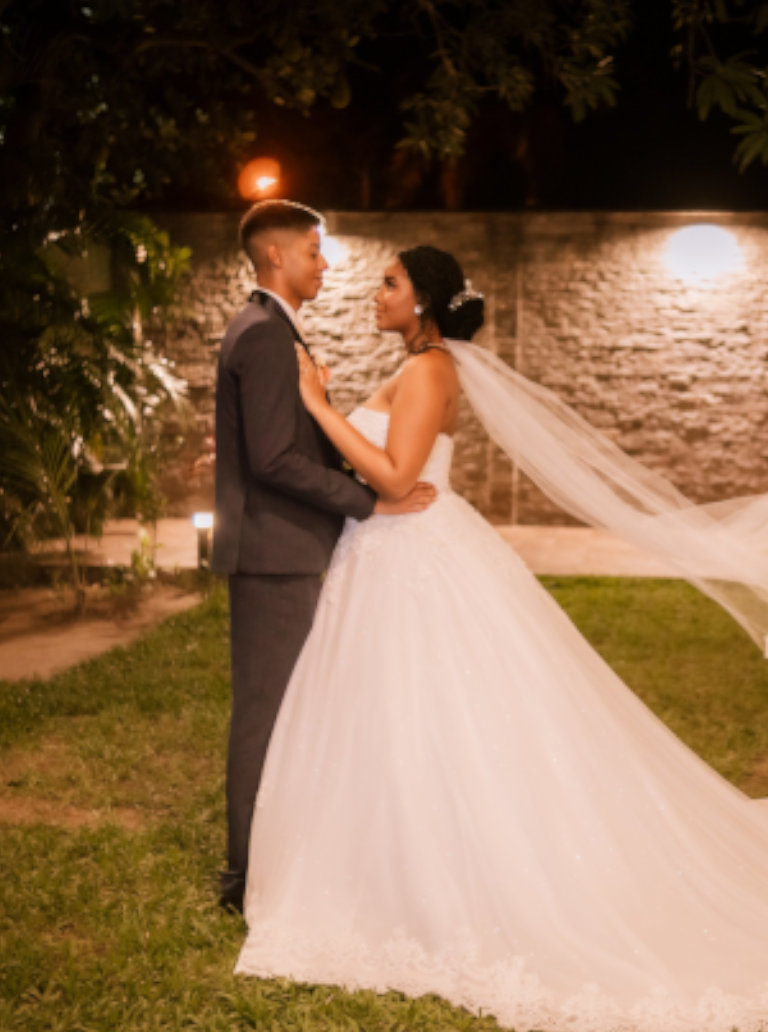
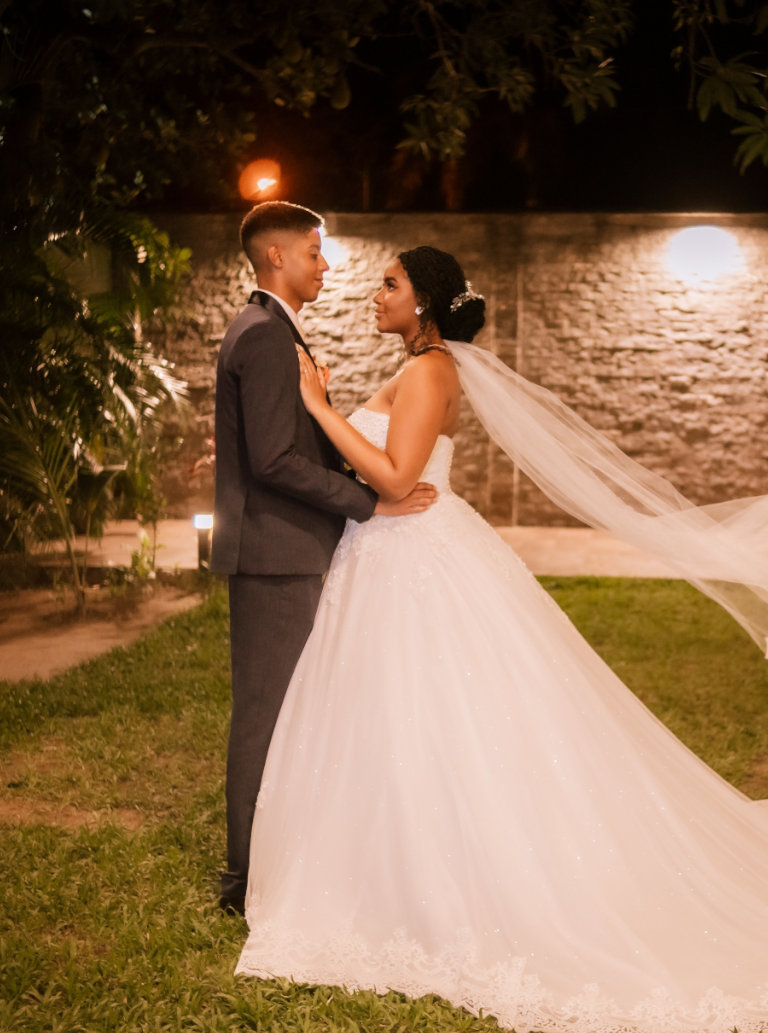
teste

diff --git a/index.html b/index.html
@@ -4,7 +4,7 @@
     <meta charset="UTF-8">
     <meta name="viewport" content="width=device-width, initial-scale=1.0">
     <title>Cerimonialista Stephany Mury</title>
-    <link rel="stylesheet" href="css/style.css?v=1.0">
+    <link rel="stylesheet" href="css/style.css?v=1.1">
     <link rel="shortcut icon" href="assets/logo/favicon.ico" type="image/x-icon">
     <link rel="stylesheet" href="https://cdnjs.cloudflare.com/ajax/libs/font-awesome/6.5.1/css/all.min.css">
     <link href="https://cdn.jsdelivr.net/npm/bootstrap@5.3.3/dist/css/bootstrap.min.css" rel="stylesheet">
